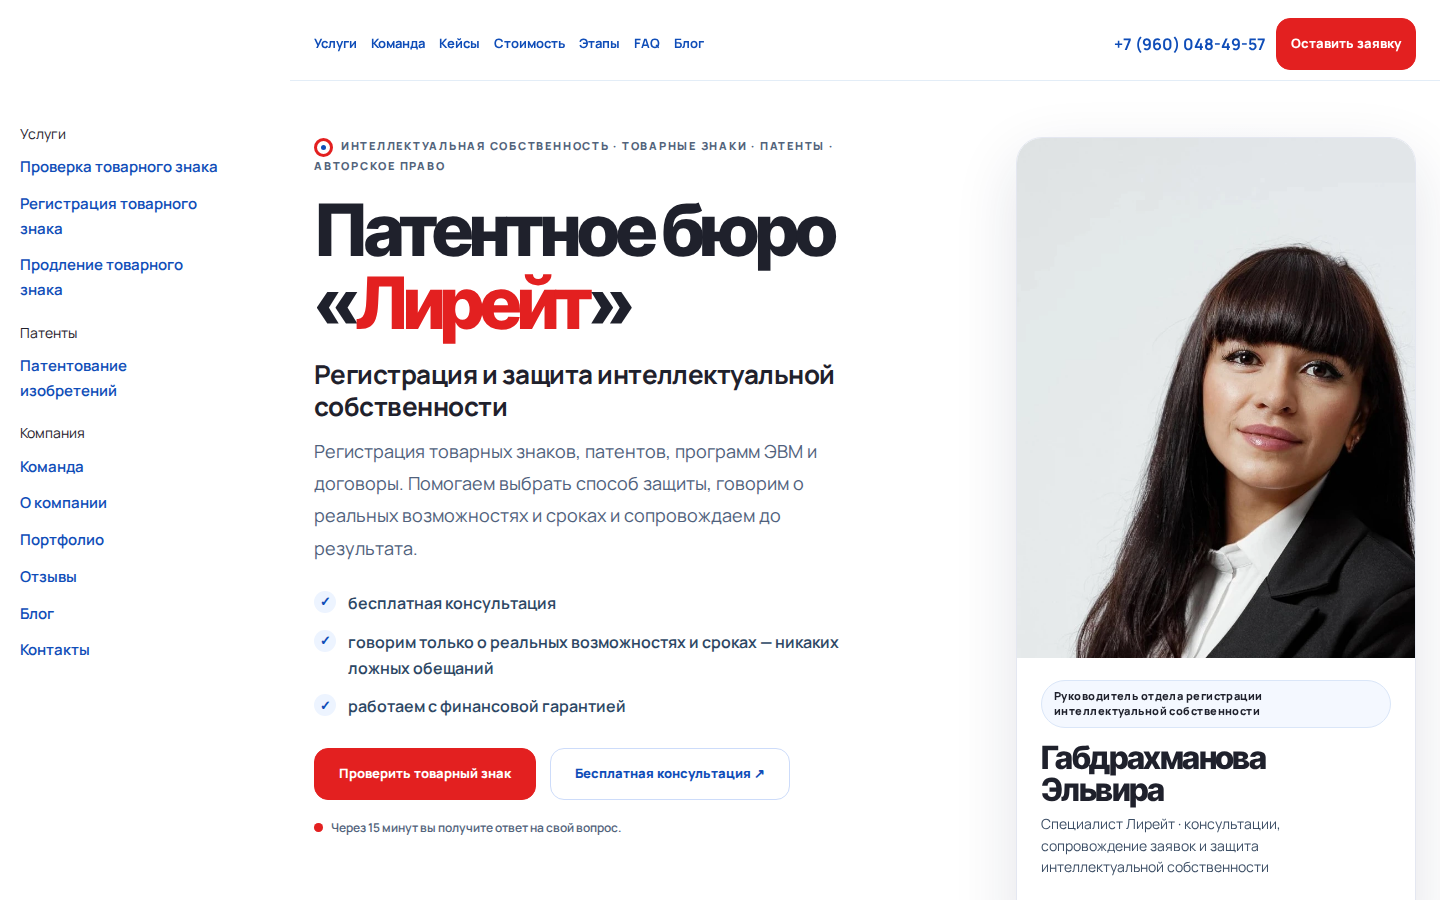
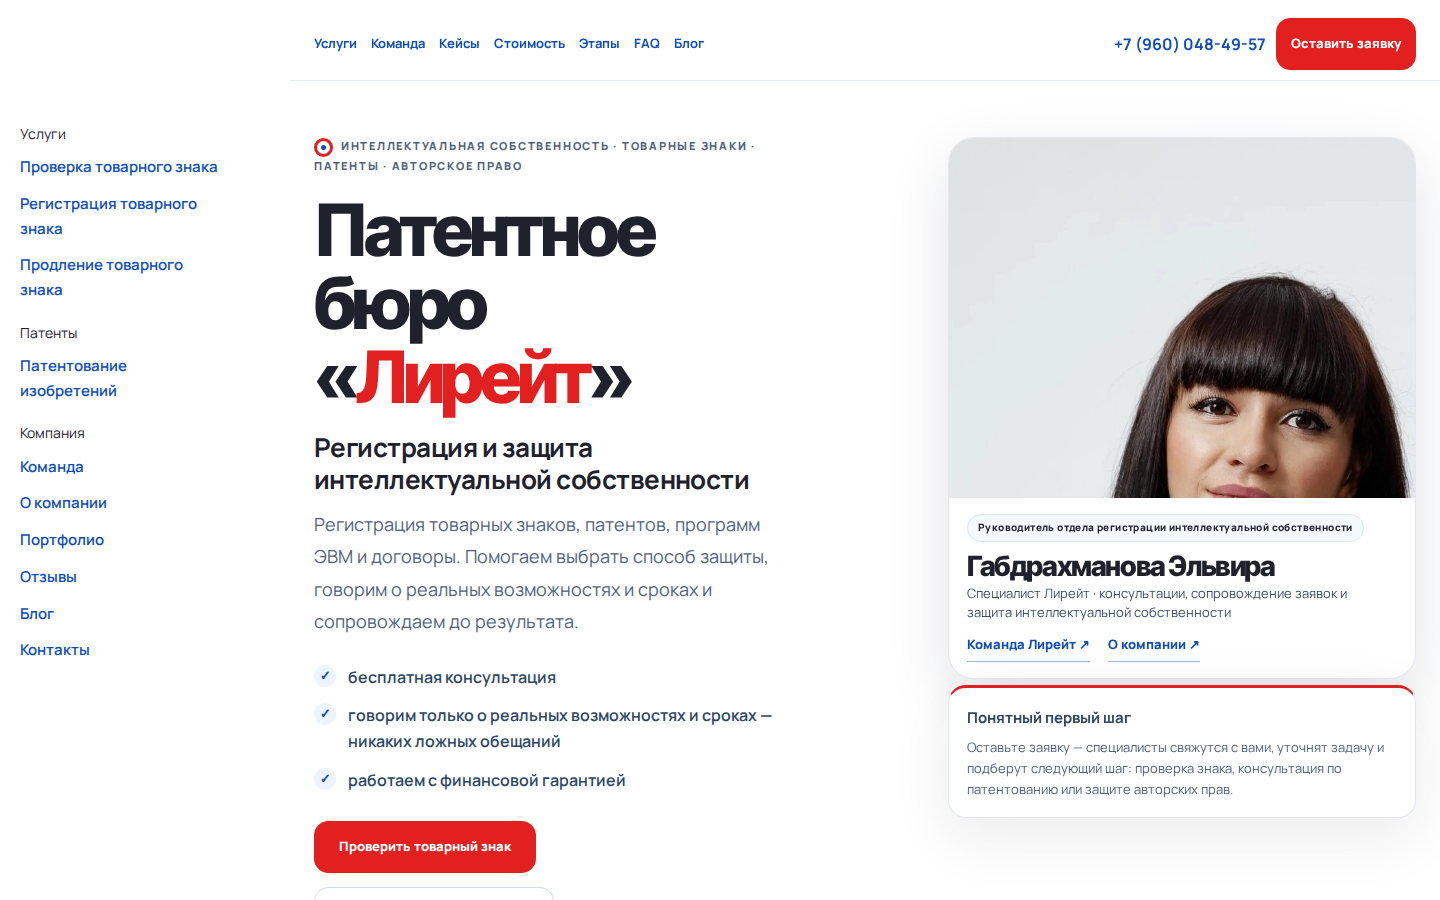
fix(home): wider hero expert card, fit on first screen (r26) (#124)
Expand hero grid photo column; cap portrait height so badge, name,
role and team links stay in viewport at 1440×900 and 1280×800.

diff --git a/template/css/lireate-home-light-v4.css b/template/css/lireate-home-light-v4.css
@@ -797,3 +797,49 @@ body.lireate-home-light-v4.lireate-theme-light-v4 .lh4-root .hero-right .expert-
   transform-origin:50% 8% !important;
 }
 }
+/* r26: шире карточка (сетка), высота фото не больше r25 — вся expert-card в первый экран */
+@media (min-width: 861px) {
+body.lireate-home-light-v4.lireate-theme-light-v4 .lh4-root .hero-grid{
+  grid-template-columns:minmax(0,.88fr) minmax(0,1.12fr);
+  gap:clamp(24px,2.6vw,36px);
+}
+body.lireate-home-light-v4.lireate-theme-light-v4 .lh4-root .hero-right{
+  max-width:min(50vw,468px);
+  width:100%;
+  justify-self:end;
+}
+body.lireate-home-light-v4.lireate-theme-light-v4 .lh4-root .hero-right .expert-photo,
+body.lireate-home-light-v4.lireate-theme-light-v4 .lh4-root .hero-right .expert-photo picture,
+body.lireate-home-light-v4.lireate-theme-light-v4 .lh4-root .hero-right .expert-photo img{
+  max-height:min(46vh,480px);
+}
+body.lireate-home-light-v4.lireate-theme-light-v4 .lh4-root .hero-right .expert-info{
+  padding:16px 20px 18px;
+}
+body.lireate-home-light-v4.lireate-theme-light-v4 .lh4-root .hero-right .expert-info h2{
+  font-size:clamp(26px,2.15vw,30px);
+  margin:10px 0 4px;
+}
+body.lireate-home-light-v4.lireate-theme-light-v4 .lh4-root .hero-right .expert-info .role{
+  font-size:13px;
+  line-height:1.45;
+  margin-bottom:12px;
+}
+body.lireate-home-light-v4.lireate-theme-light-v4 .lh4-root .hero-right .expert-info .badge{
+  font-size:10px;
+  padding:6px 10px;
+}
+}
+@media (min-width: 861px) and (max-height: 920px) {
+body.lireate-home-light-v4.lireate-theme-light-v4 .lh4-root .hero-right .expert-photo,
+body.lireate-home-light-v4.lireate-theme-light-v4 .lh4-root .hero-right .expert-photo picture,
+body.lireate-home-light-v4.lireate-theme-light-v4 .lh4-root .hero-right .expert-photo img{
+  max-height:min(40vh,420px);
+}
+body.lireate-home-light-v4.lireate-theme-light-v4 .lh4-root .hero-right .expert-info{
+  padding:14px 18px 16px;
+}
+body.lireate-home-light-v4.lireate-theme-light-v4 .lh4-root .hero-right .expert-info h2{
+  font-size:clamp(24px,2vw,28px);
+}
+}

diff --git a/scripts/test_lireate_home_hero_photo.py b/scripts/test_lireate_home_hero_photo.py
@@ -46,8 +46,8 @@ class HomeHeroPhotoTests(unittest.TestCase):
         self.assertRegex(css, r"object-position:\s*50%\s*2%")
         self.assertIn("transform:scale(1.78)", css.replace(" ", ""))
         compact = css.replace(" ", "")
-        self.assertIn("max-height:min(58vh,520px)", compact)
-        self.assertIn("max-width:min(42vw,400px)", compact)
+        self.assertIn("max-height:min(46vh,480px)", compact)
+        self.assertIn("max-width:min(50vw,468px)", compact)
         self.assertNotIn("aspect-ratio:10/13", compact)
 
     def test_head_snippet_preloads_hero_image(self):

diff --git a/scripts/test_lireate_light_v4_shared_asset_version.py b/scripts/test_lireate_light_v4_shared_asset_version.py
@@ -86,7 +86,7 @@ class LightV4SharedAssetVersionTests(unittest.TestCase):
         """Home hero CSS has its own cache-bust token (r21+) in the main.php head snippet."""
         import lireate_home_light_v4_install_lib as home_lib
 
-        self.assertEqual("20261126r25", ver.HOME_CSS_VERSION)
+        self.assertEqual("20261126r26", ver.HOME_CSS_VERSION)
         snippet = home_lib._head_snippet()
         self.assertIn(
             "/template/css/lireate-home-light-v4.css?v={0}".format(ver.HOME_CSS_VERSION), snippet

diff --git a/pages/home/_preview/cms-shell.php b/pages/home/_preview/cms-shell.php
@@ -9,7 +9,7 @@ putenv('LIREATE_PUBLIC_SITE_URL');
 putenv('LIREATE_PUBLIC_SITE_HOST');
 require_once $repo_root . '/pages/_shared/lireate-preview-bootstrap.php';
 require_once $repo_root . '/pages/home/_shared/lireate-home-config.php';
-$lh_preview_v = defined('LIREATE_HOME_CSS_VERSION') ? LIREATE_HOME_CSS_VERSION : '20261126r25';
+$lh_preview_v = defined('LIREATE_HOME_CSS_VERSION') ? LIREATE_HOME_CSS_VERSION : '20261126r26';
 if (!defined('LIREATE_HOME_PREVIEW')) {
     define('LIREATE_HOME_PREVIEW', true);
 }

diff --git a/scripts/lireate_light_v4_asset_version.py b/scripts/lireate_light_v4_asset_version.py
@@ -5,4 +5,4 @@ MAIN_JS_QUERY_VERSION = "20261126r20"
 # Home hero CSS only (template/css/lireate-home-light-v4.css): bumped separately so live
 # cache-bust is a one-line change in template/main.php (head snippet marker
 # lireate-home-light-v4-install-head:v1).
-HOME_CSS_VERSION = "20261126r25"
+HOME_CSS_VERSION = "20261126r26"

diff --git a/pages/home/_shared/lireate-home-config.php b/pages/home/_shared/lireate-home-config.php
@@ -50,5 +50,5 @@ if (!defined('LIREATE_HOME_TEMPLATE_VERSION')) {
     define('LIREATE_HOME_TEMPLATE_VERSION', '20261126r20');
 }
 if (!defined('LIREATE_HOME_CSS_VERSION')) {
-    define('LIREATE_HOME_CSS_VERSION', '20261126r25');
+    define('LIREATE_HOME_CSS_VERSION', '20261126r26');
 }

diff --git a/template/page/home/lireate-home-config.php b/template/page/home/lireate-home-config.php
@@ -50,5 +50,5 @@ if (!defined('LIREATE_HOME_TEMPLATE_VERSION')) {
     define('LIREATE_HOME_TEMPLATE_VERSION', '20261126r20');
 }
 if (!defined('LIREATE_HOME_CSS_VERSION')) {
-    define('LIREATE_HOME_CSS_VERSION', '20261126r25');
+    define('LIREATE_HOME_CSS_VERSION', '20261126r26');
 }
